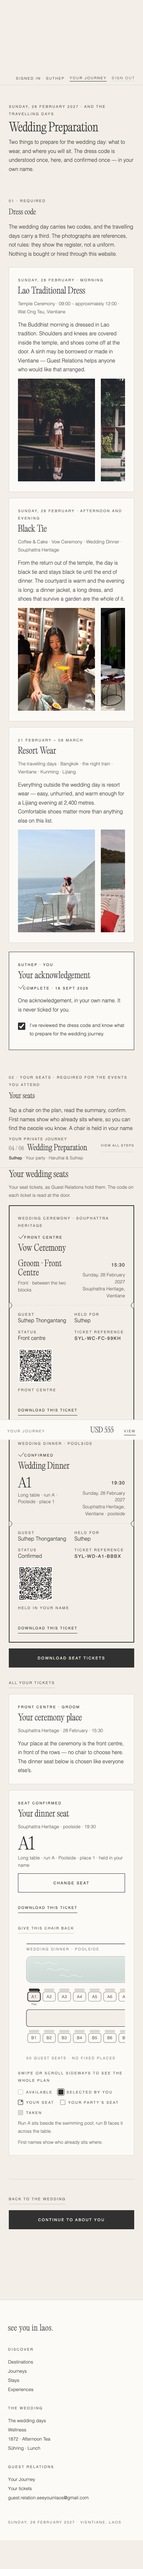
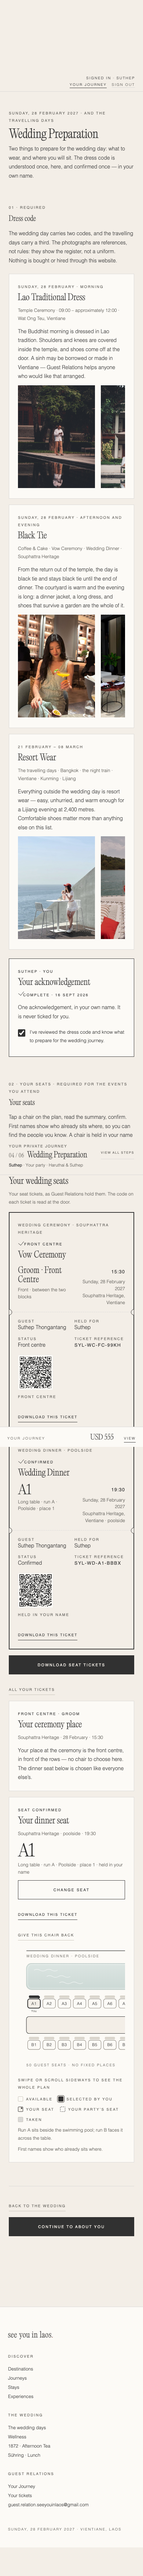
003 · release evidence at the final code e520bd1: 007 FINAL V2 regenerated (docs/review/007-final-v2-text.txt — 26 routes · 295 surfaces · 191 states · 1,868 literals · 0 leftover · secrets 0; 007-final-v2-source-truth-audit.txt — 123 claims · 98 MATCH · 17 OWNER DECISION OVERRIDE · 6 SOURCE MISSING
Claude-Session: https://claude.ai/code/session_01DWqY1vUeuuVVmPzjdWZhn7

diff --git a/docs/acceptance/2026-09-16-access/README.md b/docs/acceptance/2026-09-16-access/README.md
@@ -14,8 +14,17 @@ Owner uses live.
 | IMG_4026 (menu · Journeys) | "Journeys — Update by owner" | read as the access rule: the entry stays; signed out it leads to the invitation page |
 | IMG_4027 · IMG_4028 (dress reference rails) | "Picture size is wrong" | every reference photograph is one 3:4 card, covered from the top, max 300 px (`assets/prep.css .p-rail > img`) |
 
+The status line's space is reserved before any script runs (`6170755`): the placeholder sits in the markup
+of the fifteen pages with a static header, `assets/recon.js` places it with the header it builds (a
+`.hd-space` stand-in of the same height holds the first paint on the six script-built pages), the rules
+live in `assets/aman.css`; on a phone both states are two rows of one height — the line no longer shifts
+the page (venue walk CLS at 1280 px: voyage 0.091 → 0.031, accommodation 0.093 → 0.034; the load itself
+0.001 by a buffered layout-shift observer; the residue is the shared header's web-font swap, unchanged
+since before Edit 3).
+
 Tests: `test/access.test.mjs` (5) — the private list, the gate URL, the hand-overs, the status texts,
-the page hand-overs, the CTAs, `invite.mjs` on 21 pages, Harudot, the dress CSS. Suite 272 / 272.
+the page hand-overs, the CTAs, `invite.mjs` on 21 pages, the reserved placeholder on every page, Harudot,
+the dress CSS. Suite 272 / 272.
 
 ## The rendered access walk (`walk.mjs`, 37 checks · G001, read-only)
 Signed out: every private page hands over with the way back; every private link on the public pages
@@ -25,7 +34,7 @@ walk returns to the page it left (`?next=`), the header names the guest on every
 opens the private journey, Sign out from the header returns to the invitation page and clears the
 session, the private pages hand over again.
 - Local Worker at the final code: 37 / 37.
-- `live-worker/` (Worker origin, 40adcf4): 37 / 37 · `live-pages/` (GitHub Pages mirror): 37 / 37
+- `live-worker/` (Worker origin, 6170755): 37 / 37 · `live-pages/` (GitHub Pages mirror): 37 / 37
   (screenshots: `out-destination.png`, `out-experiences.png`, `in-journeys.png`; `walk-results.json`).
 
 ## Booking-system regression at the final code (the gate must not break a signed-in guest)
@@ -38,8 +47,9 @@ session, the private pages hand over again.
   Suthep's dinner seat D-B-15 → D-T-01 and wrote `reg:INV-G049`; both were restored and the three
   snapshots compared again: `ROOMS {"removed":[],"added":[]}` · `SEATS {…}` empty · `KV {…}` empty —
   Haruthai's live registration (`reg:INV-G048` + its `:prev:` record) and six room places untouched.
-- `live-venue-worker/` · `live-venue-pages/`: the venue walk on both origins at 40adcf4 (the header
-  status line now sits on the venue pages too): 66 / 66 · 66 / 66.
+- `live-venue-worker/` · `live-venue-pages/`: the venue walk on both origins at 6170755 (the header
+  status line now sits on the venue pages too): 66 / 66 · 66 / 66 — CLS 0.001 / 0.031 (voyage 390 / 1280),
+  0.002 / 0.034 (accommodation), long tasks 0, no video, the real aerial at every width, WebKit at 375 · 390 · 430.
 
 ## Read-only guest coverage on production (final code)
 `2026-09-15-final-release/auth-coverage.mjs` → `auth-coverage-production.json`: 47 / 47 guests —
@@ -56,5 +66,5 @@ rendered text of the two origins identical. The private pages (`journeys`, `cart
 longer public surfaces: signed out they hand over to the invitation page.
 
 ## Parity
-717 served files hashed locally and on both origins at 40adcf4: 717 / 717 identical (the two
-design exclusions — `docs/venue/ASSET-MAP.md` and `register-landing.html` — are not served by the Worker).
+717 served files hashed locally and on both origins: 717 / 717 identical at 40adcf4 and again at 6170755
+(`docs/` is not served by either origin — `.assetsignore` —, `register-landing.html` is not served by the Worker).

diff --git a/docs/review/007-final-v2-delta.md b/docs/review/007-final-v2-delta.md
@@ -1,9 +1,9 @@
 # 007 — FINAL V2 DELTA (pre-patch → final)
 
-Generated 2026-09-16 03:29 UTC by docs/review/007-final-v2-delta.py.
+Generated 2026-09-16 04:51 UTC by docs/review/007-final-v2-delta.py.
 
 PRE-PATCH: docs/review/007-final-full-website-text.txt (MAIN SHA d299355) · docs/review/007-final-source-truth-audit.txt
-FINAL:     docs/review/007-final-v2-text.txt (MAIN SHA 40adcf4) · docs/review/007-final-v2-source-truth-audit.txt
+FINAL:     docs/review/007-final-v2-text.txt (MAIN SHA 6170755) · docs/review/007-final-v2-source-truth-audit.txt
 
 | metric | pre-patch | final |
 |---|---|---|
@@ -14,8 +14,8 @@ FINAL:     docs/review/007-final-v2-text.txt (MAIN SHA 40adcf4) · docs/review/0
 | STAY / ROOM ROUTES | 33 | 33 |
 | TRANSPORT ROUTES | 5 | 5 |
 | TICKET / PDF TEMPLATES | 14 | 14 |
-| LINES | 19875 | 19878 |
-| WORDS | 102162 | 101139 |
+| LINES | 19875 | 19873 |
+| WORDS | 102162 | 101094 |
 | SOURCE-TRUTH CLAIMS CHECKED | 119 | 123 |
 | SOURCE-TRUTH MATCH | 97 | 98 |
 | SOURCE-TRUTH CONFLICT | 4 | 0 |
@@ -23,7 +23,7 @@ FINAL:     docs/review/007-final-v2-text.txt (MAIN SHA 40adcf4) · docs/review/0
 | OWNER DECISION OVERRIDES | 12 | 17 |
 | STALE / RETIRED SOURCE | — | 1 |
 | SECRET SCAN | PASS | PASS |
-| COMPLETENESS CHECK | PASS · 1813 guest-facing source literals represented · 141 folded in from states not rendered · 0 leftover · 0 failed steps | PASS · 1867 guest-facing source literals represented · 153 folded in from states not rendered · 0 leftover · 0 failed steps |
+| COMPLETENESS CHECK | PASS · 1813 guest-facing source literals represented · 141 folded in from states not rendered · 0 leftover · 0 failed steps | PASS · 1868 guest-facing source literals represented · 153 folded in from states not rendered · 0 leftover · 0 failed steps |
 
 Unique text lines (surfaces, states, templates; references and stamps normalised): 4240 → 4397 · appeared 250 · disappeared 93
 
@@ -183,9 +183,9 @@ Unique text lines (surfaces, states, templates; references and stamps normalised
 
 ### other (86)
 
-- - Dress code: acknowledged 2026-09-16T03:24:26.689Z (text version 2026-09-09)
-- - Photography & film: acknowledged 2026-09-16T03:24:54.725Z (text version 2026-09-14)
-- - Publication of photographs: GIVEN (2026-09-16T03:24:54.026Z, wording 2026-09-09-draft)
+- - Dress code: acknowledged 2026-09-16T04:36:34.063Z (text version 2026-09-09)
+- - Photography & film: acknowledged 2026-09-16T04:37:01.880Z (text version 2026-09-14)
+- - Publication of photographs: GIVEN (2026-09-16T04:37:01.180Z, wording 2026-09-09-draft)
 - 07
 - Acknowledged on 16 Sept 2026
 - Bangkok · Café · 06 MAR 2027
@@ -240,7 +240,7 @@ Unique text lines (surfaces, states, templates; references and stamps normalised
 - SURFACE 293
 - SURFACE 294
 - SURFACE 295
-- Sent · 16 Sept 2026 · 05:25 · your time
+- Sent · 16 Sept 2026 · 06:37 · your time
 - Signed in · Peggy
 - Signed in · Steffie
 - … 26 more

diff --git a/docs/review/007-change-manifest.md b/docs/review/007-change-manifest.md
@@ -150,3 +150,6 @@ Wedding Ceremony on the aerial — until then these four carry no marker on the 
   covered from the top (`assets/prep.css .p-rail > img`), on every rail.
 - Menu entry "Journeys · Update by owner" (IMG_4026) read as the access rule above: the entry stays,
   signed out it leads to the invitation page.
+- The status line's space is reserved before any script runs (`6170755`): a placeholder in the markup of
+  every page with a static header, `assets/recon.js` placing it with the header it builds, the rules in
+  `assets/aman.css` — no layout shift from the line (no text change).

diff --git a/docs/acceptance/2026-09-15-003/README.md b/docs/acceptance/2026-09-15-003/README.md
@@ -55,4 +55,5 @@ The Owner's third review (`Edit_3.zip`) — the access rule for every link, the 
 café, the dress reference cards — is applied and proven in `docs/acceptance/2026-09-16-access/`
 (annotation table, the rendered access walk 37 / 37 on both origins, the booking regression on
 production with production restored, the venue walk 66 / 66 on both origins, 47 / 47 read-only
-coverage, the public crawl of both origins CLEAN, parity 717 / 717).
+coverage, the public crawl of both origins CLEAN, parity 717 / 717; the status line's space reserved so
+nothing shifts, `6170755`).
